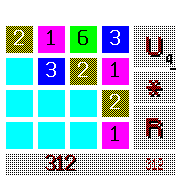
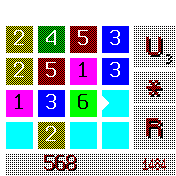
Updated the description for the chevron add-on, and added new images

diff --git a/apps/game1024/app.js b/apps/game1024/app.js
@@ -1,4 +1,4 @@
-const debugMode = 'development'; // valid values are: off, test, production, development
+const debugMode = 'off'; // valid values are: off, test, production, development
 const middle = {x:Math.floor(g.getWidth()/2)-20, y: Math.floor(g.getHeight()/2)};
 const rows = 4, cols = 4;
 const borderWidth = 6;

diff --git a/apps/game1024/README.md b/apps/game1024/README.md
@@ -11,6 +11,8 @@ When two tiles with the same number are squashed together they will add up as ex
 
 **3 + 3 = 4** or **C + C = D** which is a representation of  **2^3 +  2^3 = 2^4 = 16**
 
+After each move a new tile will be added on a random empty square. The value can be 1 or 2, and will be marked with a chevron.
+
 So you can continue till you reach **1024** which equals **2^(10)**. So when you reach tile **10** you have won.
 
 The score is maintained by adding the outcome of the sum of all pairs of squashed tiles (4+16+4+8 etc.)
